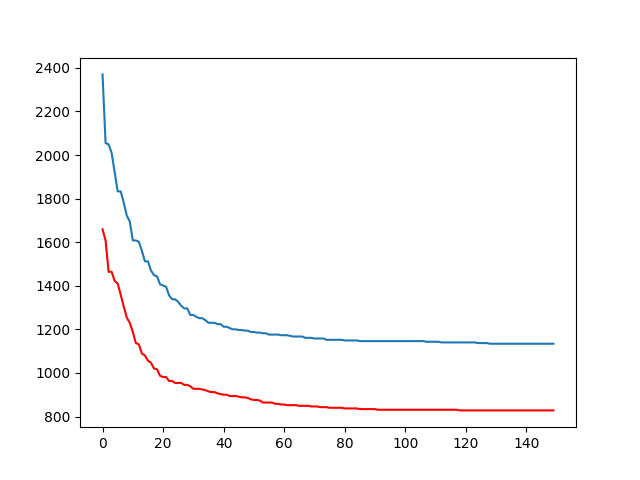
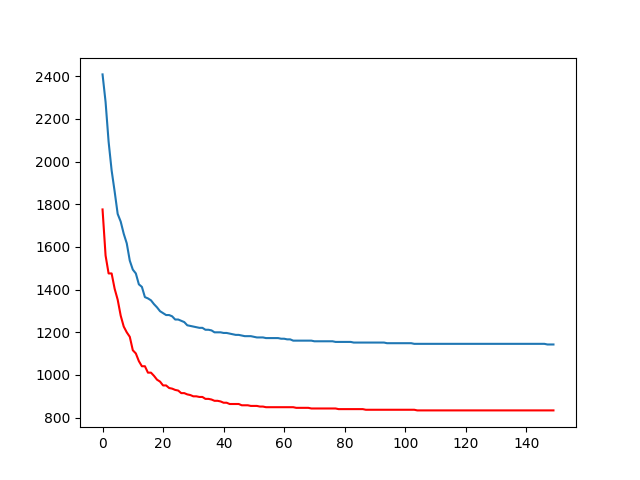
update netkey

diff --git a/RealVectorEncode.py b/RealVectorEncode.py
@@ -28,7 +28,7 @@ Original file is located at
 - Convert task to output
 """
 
-
+from datetime import datetime
 import numpy as np
 import matplotlib.pyplot as plt
 import random
@@ -718,8 +718,10 @@ Multi-factorial Evolutionary Algorithm
 Param: tasks (array of class Task), rmp, number of generation
 Output: best individual for each task
 """
-def mfea(tasks, rmp=0.3, generation=100):
+def mfea(databaseName, tasks, rmp=0.3, generation=100):
     # Initial population with N individuals for each task
+    mecat = []
+    metcat_rn = []
     history = np.empty((0, len(tasks)), float)
     K = len(tasks)
     size = N*K  # size of population
@@ -844,37 +846,99 @@ def mfea(tasks, rmp=0.3, generation=100):
                 bestCostForTask = np.min(populationFactorialCost)
             nextHistory = np.append(nextHistory, bestCostForTask)
         
+        
         history = np.vstack([history, nextHistory])
         print('Epoch [{}/{}], Best Cost: {}'.format(i + 1, generation, nextHistory))
+        mecat.append(nextHistory[0])
+        metcat_rn.append(nextHistory[1])
 
     # Result
     sol_idx = [np.argmin(individualBestCost[np.where(skillFactor == idx)]) for idx in range (len(tasks))]
+    plt.plot(mecat)
+    plt.plot(metcat_rn,color='red')
+    # plt.show()
+    plotFileName = 'Plot/' + str(databaseName) + '.png'
+    plt.savefig(plotFileName)
+    plt.clf()
     return [population[np.where(skillFactor == idx)[0]][sol_idx[idx]] for idx in range(len(tasks))], history
 
 
 # main
+# mecatDataPath = os.getcwd()+'/dataset4mecat/mecat'
+
+# mecatDataFiles = os.listdir(mecatDataPath)
+
+# mecatDataFiles = sorted(mecatDataFiles,reverse=False)
+
+# allResultCost = np.array([[0]*2])
+
+# FileName = "Record/NDE2-" + str(datetime.now())
+
+# f = open(FileName,"a")
+
+# cntDatabase = 0
+
+# for i in range(len(mecatDataFiles)):
+#     task1 = getInputFromFile(mecatDataPath+'/'+mecatDataFiles[i])
+#     task2 = getInputFromFile(mecatDataPath+'_rn/rn_'+mecatDataFiles[i])
+#     tasks = list([task1, task2])
+#     print('Task 1 and 2 is from file: ', mecatDataFiles[i])
+#     resultPopulation,history = mfea(tasks, 0.3, 500)
+#     print("-----")
+#     for i in range(len(resultPopulation)):
+#         print("Task", i+1)
+#         print(tasks[i].evaluateIndividualFactorialCost(resultPopulation[i]))
+#         print()
+#     print("-----")
+#     print()
+#     for i in range (history.shape[1]):
+#         plt.plot(np.arange(len(history)), history[:, i], "blue")
+#         plt.title(tasks[i].__class__.__name__)
+#         plt.xlabel("Epoch")
+#         plt.ylabel("Best Factorial Cost")
+#         plt.show()
+
 mecatDataPath = os.getcwd()+'/dataset4mecat/mecat'
 
 mecatDataFiles = os.listdir(mecatDataPath)
 
 mecatDataFiles = sorted(mecatDataFiles,reverse=False)
 
+# mecatDataFiles = mecatDataFiles[10:]
+
+allResultCost = np.array([[0]*2])
+
+FileName = "Record/NDE2-" + str(datetime.now())
+
+f = open(FileName,"a")
+
+cntDatabase = 0
+
 for i in range(len(mecatDataFiles)):
     task1 = getInputFromFile(mecatDataPath+'/'+mecatDataFiles[i])
     task2 = getInputFromFile(mecatDataPath+'_rn/rn_'+mecatDataFiles[i])
     tasks = list([task1, task2])
     print('Task 1 and 2 is from file: ', mecatDataFiles[i])
-    resultPopulation,history = mfea(tasks, 0.3, 500)
+    resultPopulation = mfea(mecatDataFiles[i], tasks, 0.3, 150)
+
     print("-----")
-    for i in range(len(resultPopulation)):
-        print("Task", i+1)
-        print(tasks[i].evaluateIndividualFactorialCost(resultPopulation[i]))
+    resultPopulationCost = list()
+    for j in range(len(resultPopulation)):
+        print("Task", j+1)
+        print(tasks[j].evaluateIndividualFactorialCost(resultPopulation[j]))
         print()
+        resultPopulationCost.append(tasks[j].evaluateIndividualFactorialCost(resultPopulation[j]))
+    allResultCost = np.vstack([allResultCost, np.array(resultPopulationCost)])
     print("-----")
     print()
-    for i in range (history.shape[1]):
-        plt.plot(np.arange(len(history)), history[:, i], "blue")
-        plt.title(tasks[i].__class__.__name__)
-        plt.xlabel("Epoch")
-        plt.ylabel("Best Factorial Cost")
-        plt.show()
+    resultSentence = "File: "+str(mecatDataFiles[i])+" ["+str(allResultCost[i+1][0])+" "+str(allResultCost[i+1][1])+"]"+"\n"
+    f.write(resultSentence)
+
+
+allResultCost = np.delete(allResultCost, 0, axis = 0)
+
+for i in range(len(mecatDataFiles)):
+    print("File: ", mecatDataFiles[i],end=' ')
+    print(allResultCost[i])
+
+f.close()

diff --git a/NodeDeepthEncode2.py b/NodeDeepthEncode2.py
@@ -19,7 +19,7 @@ Tx = 2
 Rx = 1
 q = 4
 NE = 25
-deltaT = 10
+deltaT = 10000
 INF = 9999999999
 
 random.seed(100)
@@ -1093,7 +1093,7 @@ for i in range(len(mecatDataFiles)):
     task2 = getInputFromFile(mecatDataPath+'_rn/rn_'+mecatDataFiles[i])
     tasks = list([task1, task2])
     print('Task 1 and 2 is from file: ', mecatDataFiles[i])
-    resultPopulation = mfea(mecatDataFiles[i], tasks, 0.5, 150)
+    resultPopulation = mfea(mecatDataFiles[i], tasks, 0.3, 150)
 
     print("-----")
     resultPopulationCost = list()
